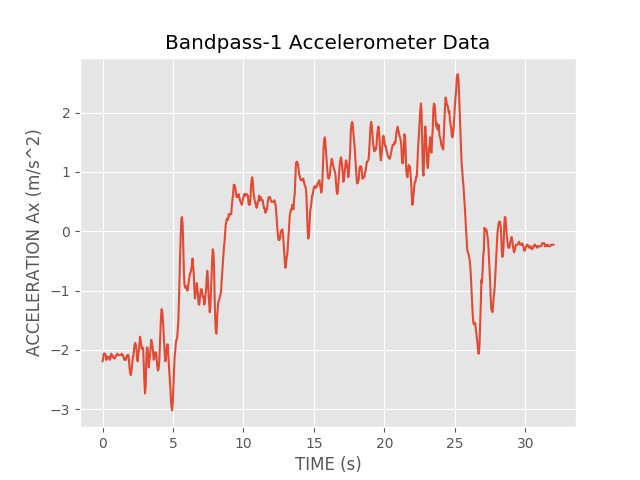
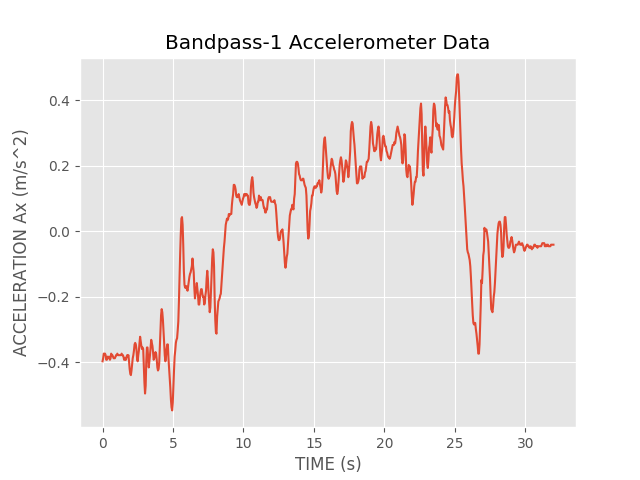
Set low and high cutoff freq in band pass

diff --git a/bio_watch.py b/bio_watch.py
@@ -120,8 +120,8 @@ def calculate_heart_rate(normalized_data):
   smooth_data = np.array(list(filter(lambda row: np.isfinite(np.sum(row)), smooth_data)), dtype=np.float64)
   plot(smooth_data[:,0], 'Smoothened Accelerometer Data')
 
-  high_cutoff_freq = 4
-  low_cutoff_freq = 11
+  low_cutoff_freq = 4
+  high_cutoff_freq = 11
   bandpass1_data = apply_bandpass_butterworth_filter(smooth_data, low_cutoff_freq, high_cutoff_freq)
   plot(bandpass1_data[:,0], 'Bandpass-1 Accelerometer Data')
 

diff --git a/README.md b/README.md
@@ -90,16 +90,16 @@ X, Y, Z axes of accelerometer values are normalized with z-scores to give them s
 ```sh
 $ python3 bio_watch.py
 Number of records: 736
-Max Amplitude: 164.356553437
-Max Frequency: 0.743169398907
-Heart Rate (bpm): 44.5901639344
+Max Amplitude: 21.9688066668
+Max Frequency: 0.874316939891
+Heart Rate (bpm): 52.4590163934
 Max Amplitude within 0.13 and 0.66 Hz frequency:
 X-Axis: 83.7839707083
 Y-Axis: 134.28961208
 Z-Axis: 193.645331484
 Max amplitude chosen: 193.645331484
-Frequency of chosen amplitude: 0.179523141655
-Respiratory Rate (bpm): 10.7713884993
+Frequency of chosen amplitude: 0.179775280899
+Respiratory Rate (bpm): 10.7865168539
 ```
 
 ## Seismotracker
